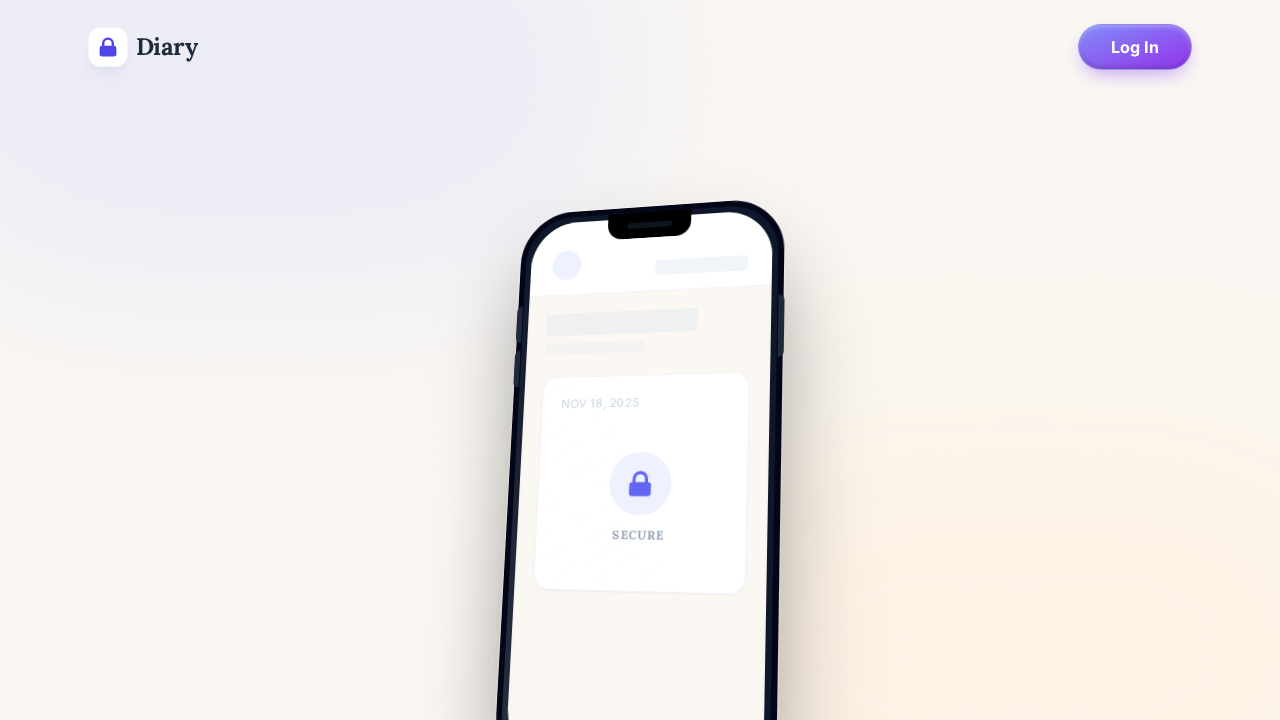
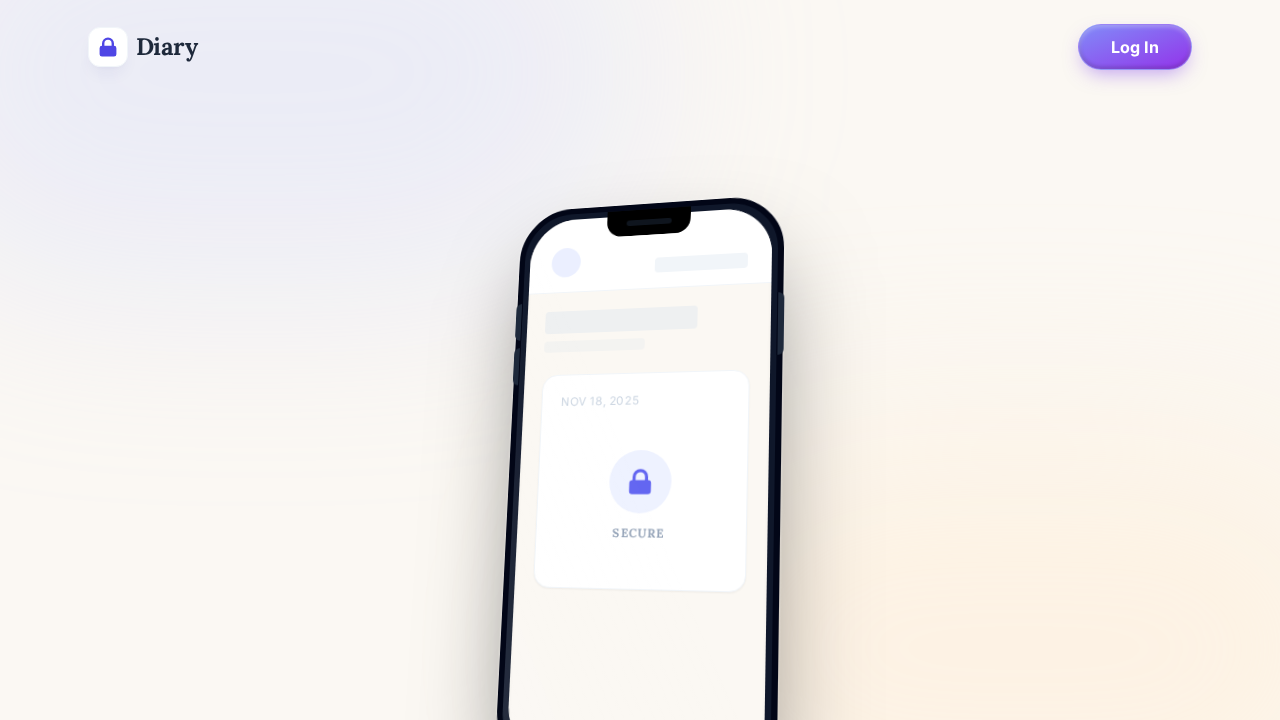
feat: Implement Capacitor Android Back Button UX

diff --git a/lib/native/useAndroidBackButton.tsx b/lib/native/useAndroidBackButton.tsx
@@ -1,0 +1,154 @@
+import React, { useEffect, useRef } from 'react';
+import { App } from '@capacitor/app';
+import { Keyboard } from '@capacitor/keyboard';
+import { Capacitor } from '@capacitor/core';
+import { useNavigate, useLocation } from 'react-router-dom';
+import { useToast } from '../../contexts/ToastContext';
+import { isAppSaving } from './backButtonRegistry';
+
+export const useAndroidBackButton = () => {
+    const navigate = useNavigate();
+    const location = useLocation();
+    const { addToast } = useToast();
+
+    // Use a ref to ensure the event listener always sees the latest addToast function
+    const addToastRef = useRef(addToast);
+    useEffect(() => {
+        addToastRef.current = addToast;
+    }, [addToast]);
+
+    const lastBackPress = useRef<number>(0);
+    const isNavigating = useRef<boolean>(false);
+
+
+    const historyStack = useRef<string[]>([]);
+
+    useEffect(() => {
+        // Keep a simple stack of the last 10 paths
+        historyStack.current.push(location.pathname);
+        if (historyStack.current.length > 10) {
+            historyStack.current.shift();
+        }
+    }, [location.pathname]);
+
+    useEffect(() => {
+        if (!Capacitor.isNativePlatform()) {
+            return;
+        }
+
+        const handleBackButton = async () => {
+            const currentTime = new Date().getTime();
+
+            // --- 0. DEBOUNCE & LOCK ---
+            if (isNavigating.current || currentTime - lastBackPress.current < 300) {
+                return; // Ignore spam presses
+            }
+            isNavigating.current = true;
+
+            try {
+                const currentPath = location.pathname;
+
+                // --- 1. KEYBOARD DISMISSAL ---
+                if (document.activeElement &&
+                    (document.activeElement.tagName === 'INPUT' ||
+                     document.activeElement.tagName === 'TEXTAREA' ||
+                     (document.activeElement as HTMLElement).isContentEditable)) {
+                    (document.activeElement as HTMLElement).blur();
+                    // Optional: Try to dismiss native keyboard as well just to be safe
+                    try {
+                        await Keyboard.hide();
+                    } catch (e) {
+                        // ignore error if keyboard wasn't showing or plugin not available
+                    }
+                    return;
+                }
+
+                // --- 2. FULLSCREEN EXIT ---
+                if (document.fullscreenElement) {
+                    await document.exitFullscreen();
+                    return;
+                }
+
+                // --- 3. MODAL / DRAWER / OVERLAY PRIORITY ---
+                const activeOverlays = document.querySelectorAll(
+                    '[role="dialog"], .modal, .bottom-sheet, [data-headlessui-state="open"]'
+                );
+                if (activeOverlays.length > 0) {
+                    // Try standard escape key for accessible dialogs
+                    document.dispatchEvent(new KeyboardEvent('keydown', { key: 'Escape' }));
+                    return;
+                }
+
+                // --- 4. CRITICAL WORKFLOW PROTECTION ---
+                if (isAppSaving) {
+                    addToastRef.current('Please wait, saving...', 'info');
+                    return;
+                }
+
+                // --- 5. DASHBOARD SINGLE EXIT ROOT ---
+                // We consider lock screens, intro (login), and timeline as root.
+                const exitRoots = ['/', '/login', '/app', '/app/'];
+
+                if (exitRoots.includes(currentPath)) {
+                    if (currentTime - lastBackPress.current < 2000) {
+                        App.exitApp();
+                    } else {
+                        lastBackPress.current = currentTime;
+                        addToastRef.current('Press back again to exit', 'info');
+                    }
+                    return;
+                }
+
+                // --- 6. DETERMINISTIC HIERARCHICAL MAPPING ---
+                let targetPath = '/app'; // Safe fallback
+
+                // Nested routes
+                if (currentPath.startsWith('/app/entry/')) {
+                    targetPath = '/app';
+                } else if (currentPath === '/app/new') {
+                    targetPath = '/app';
+                } else if (currentPath.startsWith('/app/edit/')) {
+                    const id = currentPath.split('/app/edit/')[1];
+                    targetPath = `/app/entry/${id}`;
+                } else if (currentPath === '/app/mystuff/images' || currentPath === '/app/mystuff/audio') {
+                    targetPath = '/app/mystuff';
+                } else if (currentPath.startsWith('/app/')) {
+                    // This covers /app/mystuff, /app/calendar, /app/search, /app/profile
+                    targetPath = '/app';
+                }
+
+
+                // Record time for debounce and root logic
+                lastBackPress.current = currentTime;
+
+                // Navigate hierarchically.
+                // If the previous history entry is already the parent, use real history-back so the timeline keeps its scroll position and filters.
+                const len = historyStack.current.length;
+                if (len >= 2 && historyStack.current[len - 2] === targetPath) {
+                    navigate(-1);
+                } else {
+                    navigate(targetPath, { replace: true });
+                }
+
+
+            } finally {
+                // Release lock after a short delay
+                setTimeout(() => {
+                    isNavigating.current = false;
+                }, 100);
+            }
+        };
+
+        const listener = App.addListener('backButton', handleBackButton);
+
+        return () => {
+            listener.then(l => l.remove());
+        };
+    }, [navigate, location.pathname]);
+};
+
+// Component to render inside the router
+export const NativeBackButtonHandler: React.FC = () => {
+    useAndroidBackButton();
+    return null;
+};

diff --git a/DiaryLayout.tsx b/DiaryLayout.tsx
@@ -8,6 +8,7 @@ import { useToast } from './contexts/ToastContext';
 import { fetchWeather } from './lib/weather';
 import { generateSmartTags } from './lib/smartTags';
 import { extractImagePaths, diffImagePaths } from './lib/cleanupUtils';
+import { setIsAppSaving } from './lib/native/backButtonRegistry';
 
 // @ts-ignore
 import { ZipWriter, BlobWriter, TextReader } from '@zip.js/zip.js';
@@ -323,6 +324,8 @@ const DiaryLayout: React.FC<DiaryLayoutProps> = ({ session, theme, onToggleTheme
 
   // Internal save function
   const executeSave = useCallback(async (entryData: Partial<DiaryEntry> & Pick<DiaryEntry, 'title' | 'content' | 'created_at'>) => {
+     setIsAppSaving(true);
+     const saveTimeout = setTimeout(() => setIsAppSaving(false), 10000); // 10s safety timeout
      if (!key) { addToast("Security session expired.", "error"); return; }
 
      setSaveStatus('encrypting');
@@ -501,11 +504,15 @@ const DiaryLayout: React.FC<DiaryLayoutProps> = ({ session, theme, onToggleTheme
        setSaveStatus('synced');
        setIsSmartTagsModalOpen(false);
        setPendingEntrySave(null);
+       clearTimeout(saveTimeout);
+       setIsAppSaving(false);
 
      } catch (error) {
        console.error("Error saving entry:", error);
        addToast("Failed to save entry.", "error");
        setSaveStatus('error');
+       clearTimeout(saveTimeout);
+       setIsAppSaving(false);
      }
   }, [key, session.user.id, encrypt, encryptBinary, addToast, entries, navigate]);
 

diff --git a/App.tsx b/App.tsx
@@ -13,6 +13,8 @@ import { CryptoProvider } from './contexts/CryptoContext';
 import { ToastProvider } from './contexts/ToastContext';
 import { Session } from '@supabase/supabase-js';
 import { Capacitor } from '@capacitor/core';
+import { NativeBackButtonHandler } from './lib/native/useAndroidBackButton';
+import { Outlet } from 'react-router-dom';
 
 // Route Components
 import Timeline from './routes/Timeline';
@@ -35,6 +37,15 @@ const ProtectedRoute = ({ children, session }: { children: React.ReactNode, sess
     return <Navigate to="/login" state={{ from: location }} replace />;
   }
   return <>{children}</>;
+};
+
+const RootLayout: React.FC = () => {
+  return (
+    <>
+      <NativeBackButtonHandler />
+      <Outlet />
+    </>
+  );
 };
 
 const App: React.FC = () => {
@@ -106,6 +117,10 @@ const App: React.FC = () => {
 
   const router = useMemo(() => {
      return createHashRouter([
+       {
+           element: <RootLayout />,
+           errorElement: <ErrorBoundary />,
+           children: [
         {
             path: "/",
             element: session ? <Navigate to="/app" /> : <LandingPage />,
@@ -147,6 +162,8 @@ const App: React.FC = () => {
             path: "*",
             element: <NotFound />,
         }
+           ]
+       }
      ]);
   }, [session, theme]); // Dependencies ensure router updates if these change
 

diff --git a/components/ConfirmationModal.tsx b/components/ConfirmationModal.tsx
@@ -1,4 +1,4 @@
-import React from 'react';
+import React, { useEffect } from 'react';
 
 interface ConfirmationModalProps {
   isOpen: boolean;
@@ -28,6 +28,16 @@ const ConfirmationModal: React.FC<ConfirmationModalProps> = ({
   if (!isOpen) return null;
 
   const handleCancel = onCancel || onClose || (() => {});
+
+  useEffect(() => {
+    const handleEscape = (e: KeyboardEvent) => {
+      if (e.key === 'Escape' && !isProcessing && isOpen) {
+        handleCancel();
+      }
+    };
+    document.addEventListener('keydown', handleEscape);
+    return () => document.removeEventListener('keydown', handleEscape);
+  }, [isOpen, isProcessing, handleCancel]);
 
   // Determine styles based on type
   const typeStyles = {

diff --git a/lib/native/backButtonRegistry.ts b/lib/native/backButtonRegistry.ts
@@ -1,0 +1,4 @@
+export let isAppSaving = false;
+export const setIsAppSaving = (val: boolean) => {
+    isAppSaving = val;
+};
